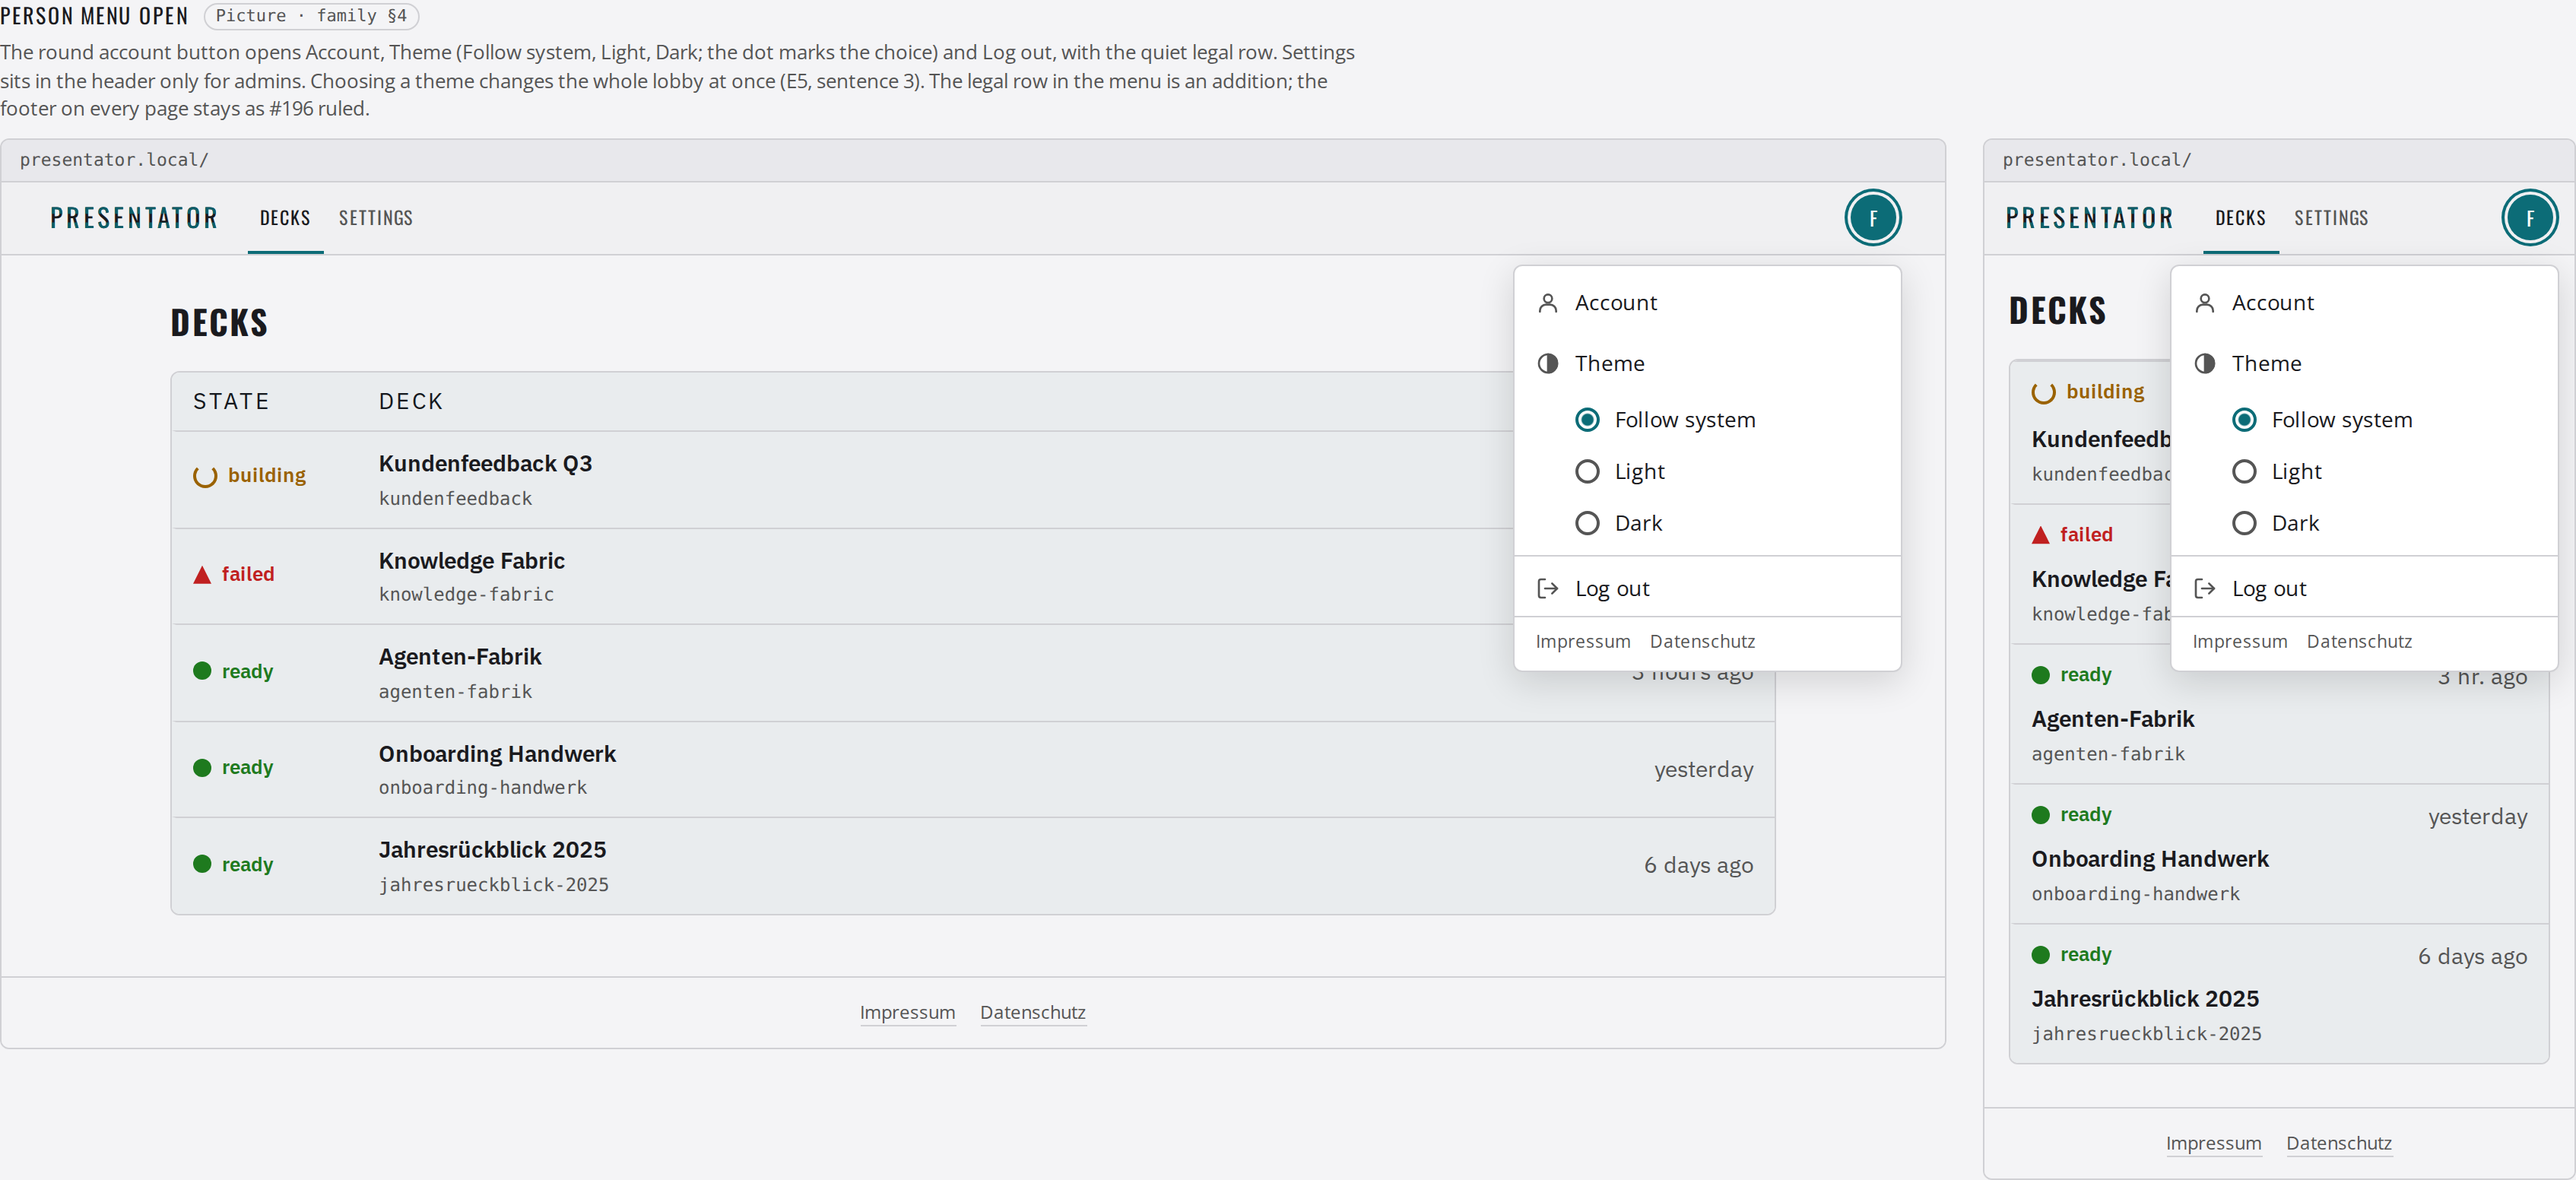
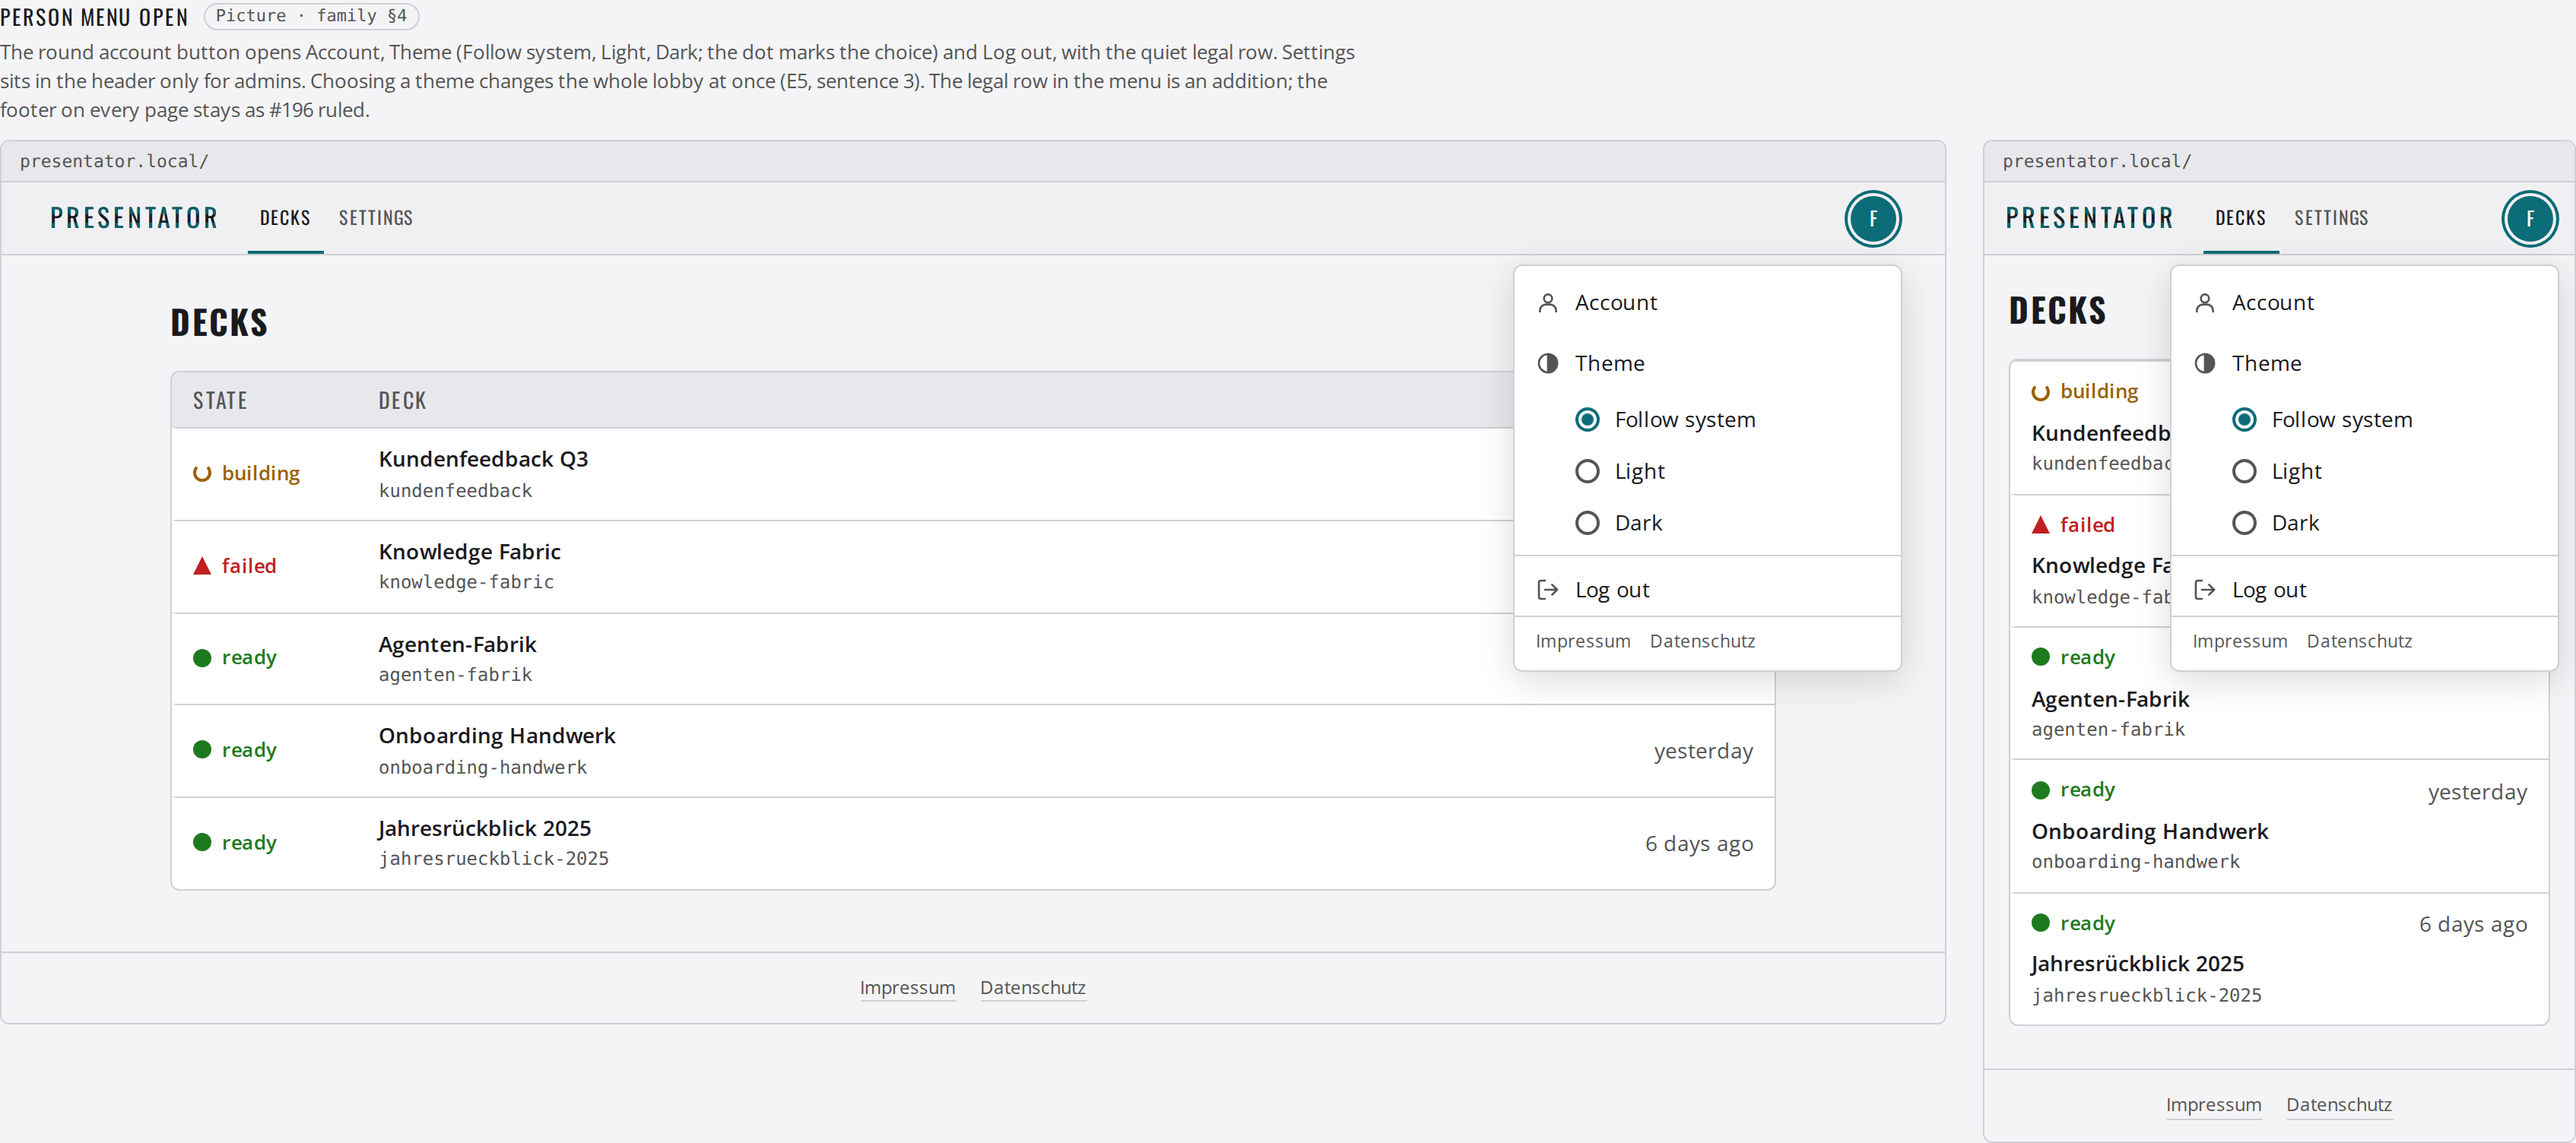
Scope the room and presenter look to a class the lobby rows do not use
The restoration rules for the frozen room and presenter groups were keyed on
`.deck`, which the lobby's own deck-list rows also carry, so the Home deck list
and person menu lost the family look (grey rows, IBM Plex, deck tokens). The
two frozen sections now carry `deck-surfaces` and every restoration selector
uses it; the deck-list, person-menu and overview pictures are re-rendered.
Serves #610 (delta review finding N1).

diff --git a/docs/mockups/m0-lobby.html b/docs/mockups/m0-lobby.html
@@ -227,7 +227,7 @@ a.r.hover { background: var(--surface-hover); }
 .icon { width: 16px; height: 16px; flex: none; display: block; }
 
 /* The deck groups keep the look their frozen pictures (#139, #293 S12) were drawn in: their own tokens and board chrome, scoped here. */
-.deck {
+.deck-surfaces {
 	--canvas: #E9ECEE; --canvas-2: #DFE3E6; --screen: #FFFFFF; --ink: #14181D; --ink-soft: #5C6774; --ink-faint: #8A94A0; --line: #D2D8DD;
 	--busy: #9A6200; --shadow: 0 1px 2px rgba(20, 24, 29, .06), 0 8px 24px -12px rgba(20, 24, 29, .28);
 	--sans: "IBM Plex Sans", ui-sans-serif, system-ui, "Segoe UI", sans-serif;
@@ -235,31 +235,31 @@ a.r.hover { background: var(--surface-hover); }
 	--mono: "IBM Plex Mono", ui-monospace, "SFMono-Regular", "Consolas", monospace;
 	width: 1120px; max-width: 100%; background: var(--canvas); -webkit-font-smoothing: antialiased; color: var(--ink); font-family: var(--sans); font-size: 15px; line-height: 1.5;
 }
-:root[data-theme='dark'] .deck {
+:root[data-theme='dark'] .deck-surfaces {
 	--canvas: #101317; --canvas-2: #171B21; --screen: #1C2128; --ink: #E8ECF0; --ink-soft: #9BA5B1; --ink-faint: #737E8B; --line: #2C333C;
 	--busy: #E0A63F; --shadow: 0 1px 2px rgba(0, 0, 0, .5), 0 10px 28px -14px rgba(0, 0, 0, .8);
 }
 @media (prefers-color-scheme: dark) {
-	:root:not([data-theme='light']) .deck {
+	:root:not([data-theme='light']) .deck-surfaces {
 		--canvas: #101317; --canvas-2: #171B21; --screen: #1C2128; --ink: #E8ECF0; --ink-soft: #9BA5B1; --ink-faint: #737E8B; --line: #2C333C;
 		--busy: #E0A63F; --shadow: 0 1px 2px rgba(0, 0, 0, .5), 0 10px 28px -14px rgba(0, 0, 0, .8);
 	}
 }
-.deck *, .deck *::before, .deck *::after { box-sizing: revert; }
-.deck .group-head { display: flex; align-items: baseline; gap: 14px; flex-wrap: wrap; border-bottom: 1px solid var(--line); padding-bottom: 10px; }
-.deck .group-head h2 { margin: 0; font-family: inherit; font-size: 22px; font-weight: 600; letter-spacing: -.01em; text-transform: none; }
-.deck .lines { font-family: var(--mono); font-size: 12px; color: var(--ink-soft); }
-.deck .boards { gap: 32px; }
-.deck .board-cap { max-width: 48ch; }
-.deck .board-title { font-family: var(--cond); font-size: 13px; letter-spacing: .08em; gap: 10px; flex-wrap: wrap; }
-.deck .board-title .w { font-family: var(--mono); font-size: 11px; letter-spacing: 0; text-transform: none; color: var(--ink-faint); }
-.deck .board-note { color: var(--ink-soft); }
-.deck .open-mark { font-family: var(--cond); }
-.deck .frame { background: var(--screen); border: 1px solid var(--line); box-shadow: var(--shadow); }
-.deck .route { background: var(--canvas-2); border-bottom: 1px solid var(--line); font-family: var(--mono); color: var(--ink-faint); }
-.deck .route::before { background: var(--ink-faint); }
+.deck-surfaces *, .deck-surfaces *::before, .deck-surfaces *::after { box-sizing: revert; }
+.deck-surfaces .group-head { display: flex; align-items: baseline; gap: 14px; flex-wrap: wrap; border-bottom: 1px solid var(--line); padding-bottom: 10px; }
+.deck-surfaces .group-head h2 { margin: 0; font-family: inherit; font-size: 22px; font-weight: 600; letter-spacing: -.01em; text-transform: none; }
+.deck-surfaces .lines { font-family: var(--mono); font-size: 12px; color: var(--ink-soft); }
+.deck-surfaces .boards { gap: 32px; }
+.deck-surfaces .board-cap { max-width: 48ch; }
+.deck-surfaces .board-title { font-family: var(--cond); font-size: 13px; letter-spacing: .08em; gap: 10px; flex-wrap: wrap; }
+.deck-surfaces .board-title .w { font-family: var(--mono); font-size: 11px; letter-spacing: 0; text-transform: none; color: var(--ink-faint); }
+.deck-surfaces .board-note { color: var(--ink-soft); }
+.deck-surfaces .open-mark { font-family: var(--cond); }
+.deck-surfaces .frame { background: var(--screen); border: 1px solid var(--line); box-shadow: var(--shadow); }
+.deck-surfaces .route { background: var(--canvas-2); border-bottom: 1px solid var(--line); font-family: var(--mono); color: var(--ink-faint); }
+.deck-surfaces .route::before { background: var(--ink-faint); }
 /* The frozen pictures were drawn in quirks mode, where this inline kicker's line box has no strut; a block box gives the same height. */
-.deck .presenter-note > .presenter-kicker { display: block; }
+.deck-surfaces .presenter-note > .presenter-kicker { display: block; }
 @keyframes room-pulse { 50% { box-shadow: 0 0 0 .1em #56C3CD33; } }
 
 /* ---------- ages: long on the desktop, Intl's short style at 390 px ---------- */
@@ -692,7 +692,7 @@ a.r.hover { background: var(--surface-hover); }
 
 
   <!-- ================= DECK SURFACES THAT STAY AS THEY ARE ================= -->
-<section class="group deck">
+<section class="group deck-surfaces">
     <div class="group-head">
       <h2>Presenter Home</h2>
       <span class="lines">proposal · issue #139</span>
@@ -785,7 +785,7 @@ a.r.hover { background: var(--surface-hover); }
   </section>
 
   <!-- ================= THE ROOM KNOWS · #293 S12 ================= -->
-  <section class="group deck">
+  <section class="group deck-surfaces">
     <div class="group-head">
       <h2>The room knows (#293 S12)</h2>
       <span class="lines">issue #525 · #293 line 6</span>

diff --git a/docs/mockups/README.md b/docs/mockups/README.md
@@ -40,7 +40,7 @@ tokens and fonts, never a copy of its values. On top of it the sheet carries
 its own component styles for the boards (bar, tabs, rows, fields, cards, menu) and
 presentator's colour in the app slot; `appkit.css` itself stays as shipped.
 
-The room and presenter groups (class `deck`) keep the look their frozen pictures
+The room and presenter groups (class `deck-surfaces`) keep the look their frozen pictures
 (#139, #293 S12) were drawn in: their tokens, board chrome and IBM Plex from Google
 Fonts are scoped to `.deck`, so their renders do not change with the lobby's look.
 
